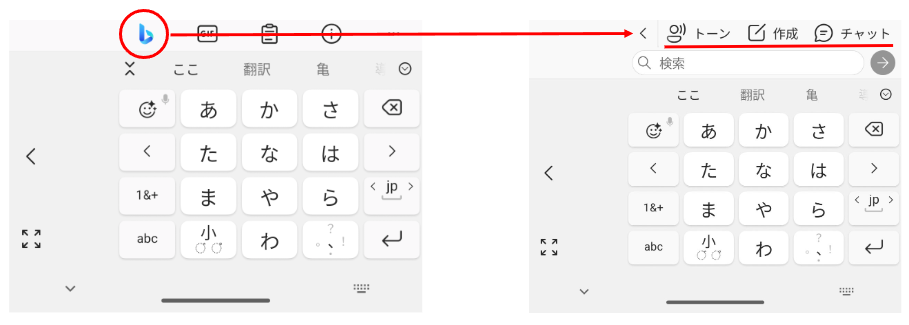
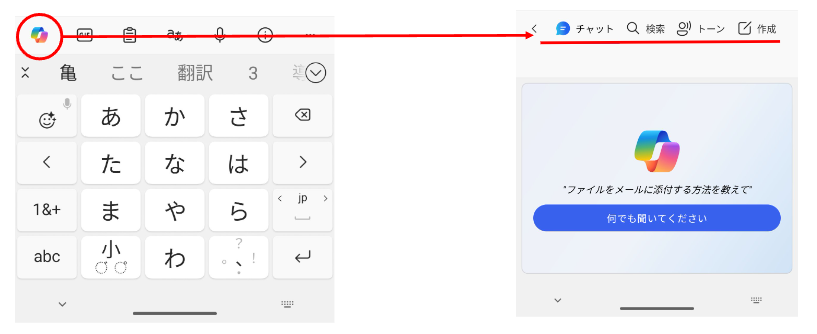
swift アップデートに追従、起動画面更新、変更履歴追加

diff --git a/articles/turtle-20240207-swiftkey.md b/articles/turtle-20240207-swiftkey.md
@@ -235,3 +235,7 @@ https://play.google.com/store/apps/details?id=com.touchtype.swiftkey
 
 **iOS(iPhone)**
 https://apps.apple.com/jp/app/microsoft-swiftkey-ai-keyboard/id911813648
+
+## 更新履歴
+
+- **2024/02/11**：アプリのアップデートに合わせて、起動方法の画像を差し替えました。
